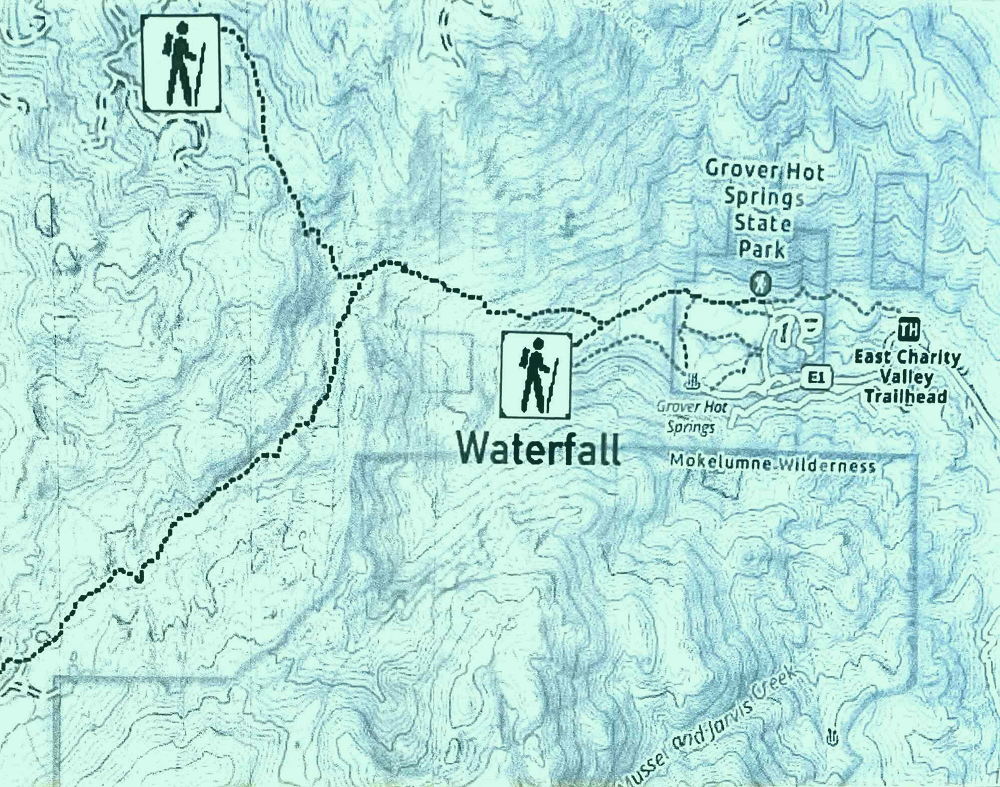
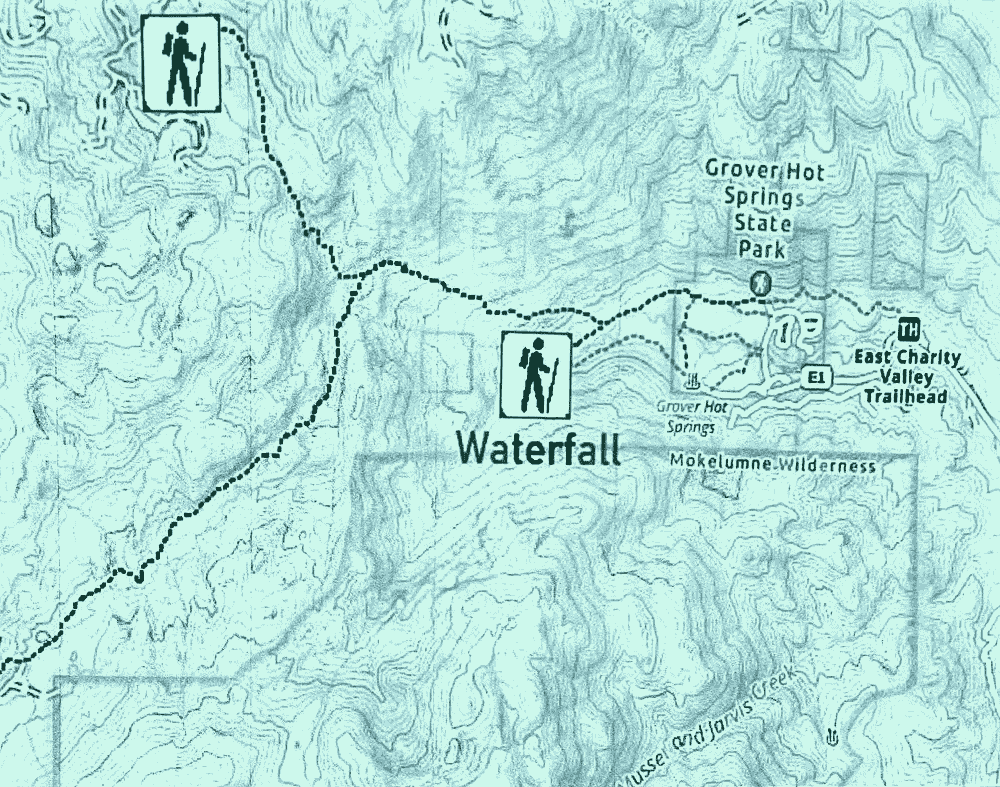
updated images

Changed region(s): [[0.899, 0.3355, 0.93, 0.3659]]

diff --git a/everypicture/v2-final-version/index.html b/everypicture/v2-final-version/index.html
@@ -27,11 +27,11 @@
             <img class="thumbnail" id="forest_thumb" src="images/burnt_forest_thumb.jpeg" alt="burnt forest" height="80">
             <img class="thumbnail" id="spring_thumb" src="images/secret_spring_thumb.jpeg" alt="secret spring" width="80">
 
-            <img src="images/hot_spring.png" alt="hot spring" id="hot" class="hidden">
-            <img src="images/lake.png" alt="burnside lake" id="lake" class="hidden">
-            <img src="images/waterfall.png" alt="waterfall" id="waterfall" class="hidden">
-            <img src="images/forest.png" alt="forest" id="forest" class="hidden">
-            <img src="images/secret_spring.png" alt="secret spring" id="spring" class="hidden">
+            <img src="images/hot_spring.jpg" alt="hot spring" id="hot" class="hidden">
+            <img src="images/lake.jpg" alt="burnside lake" id="lake" class="hidden">
+            <img src="images/waterfall.jpg" alt="waterfall" id="waterfall" class="hidden">
+            <img src="images/forest.jpg" alt="forest" id="forest" class="hidden">
+            <img src="images/secret_spring.jpg" alt="secret spring" id="spring" class="hidden">
 
             <button id="close" class="hidden">x</button>
 
